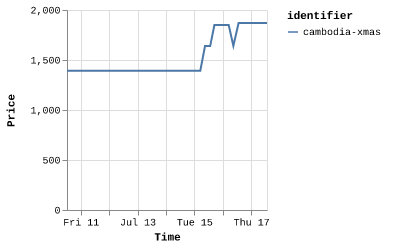
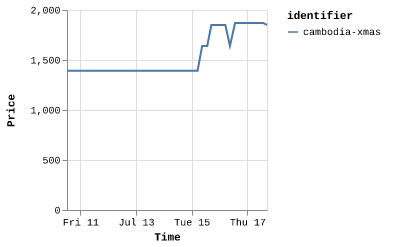
Latest scraping flights: Thu Jul 17 16:55:19 UTC 2025

diff --git a/scrapes/flights/cambodia-xmas.md b/scrapes/flights/cambodia-xmas.md
@@ -1,1 +1,1 @@
-€1,871
+€1,851
